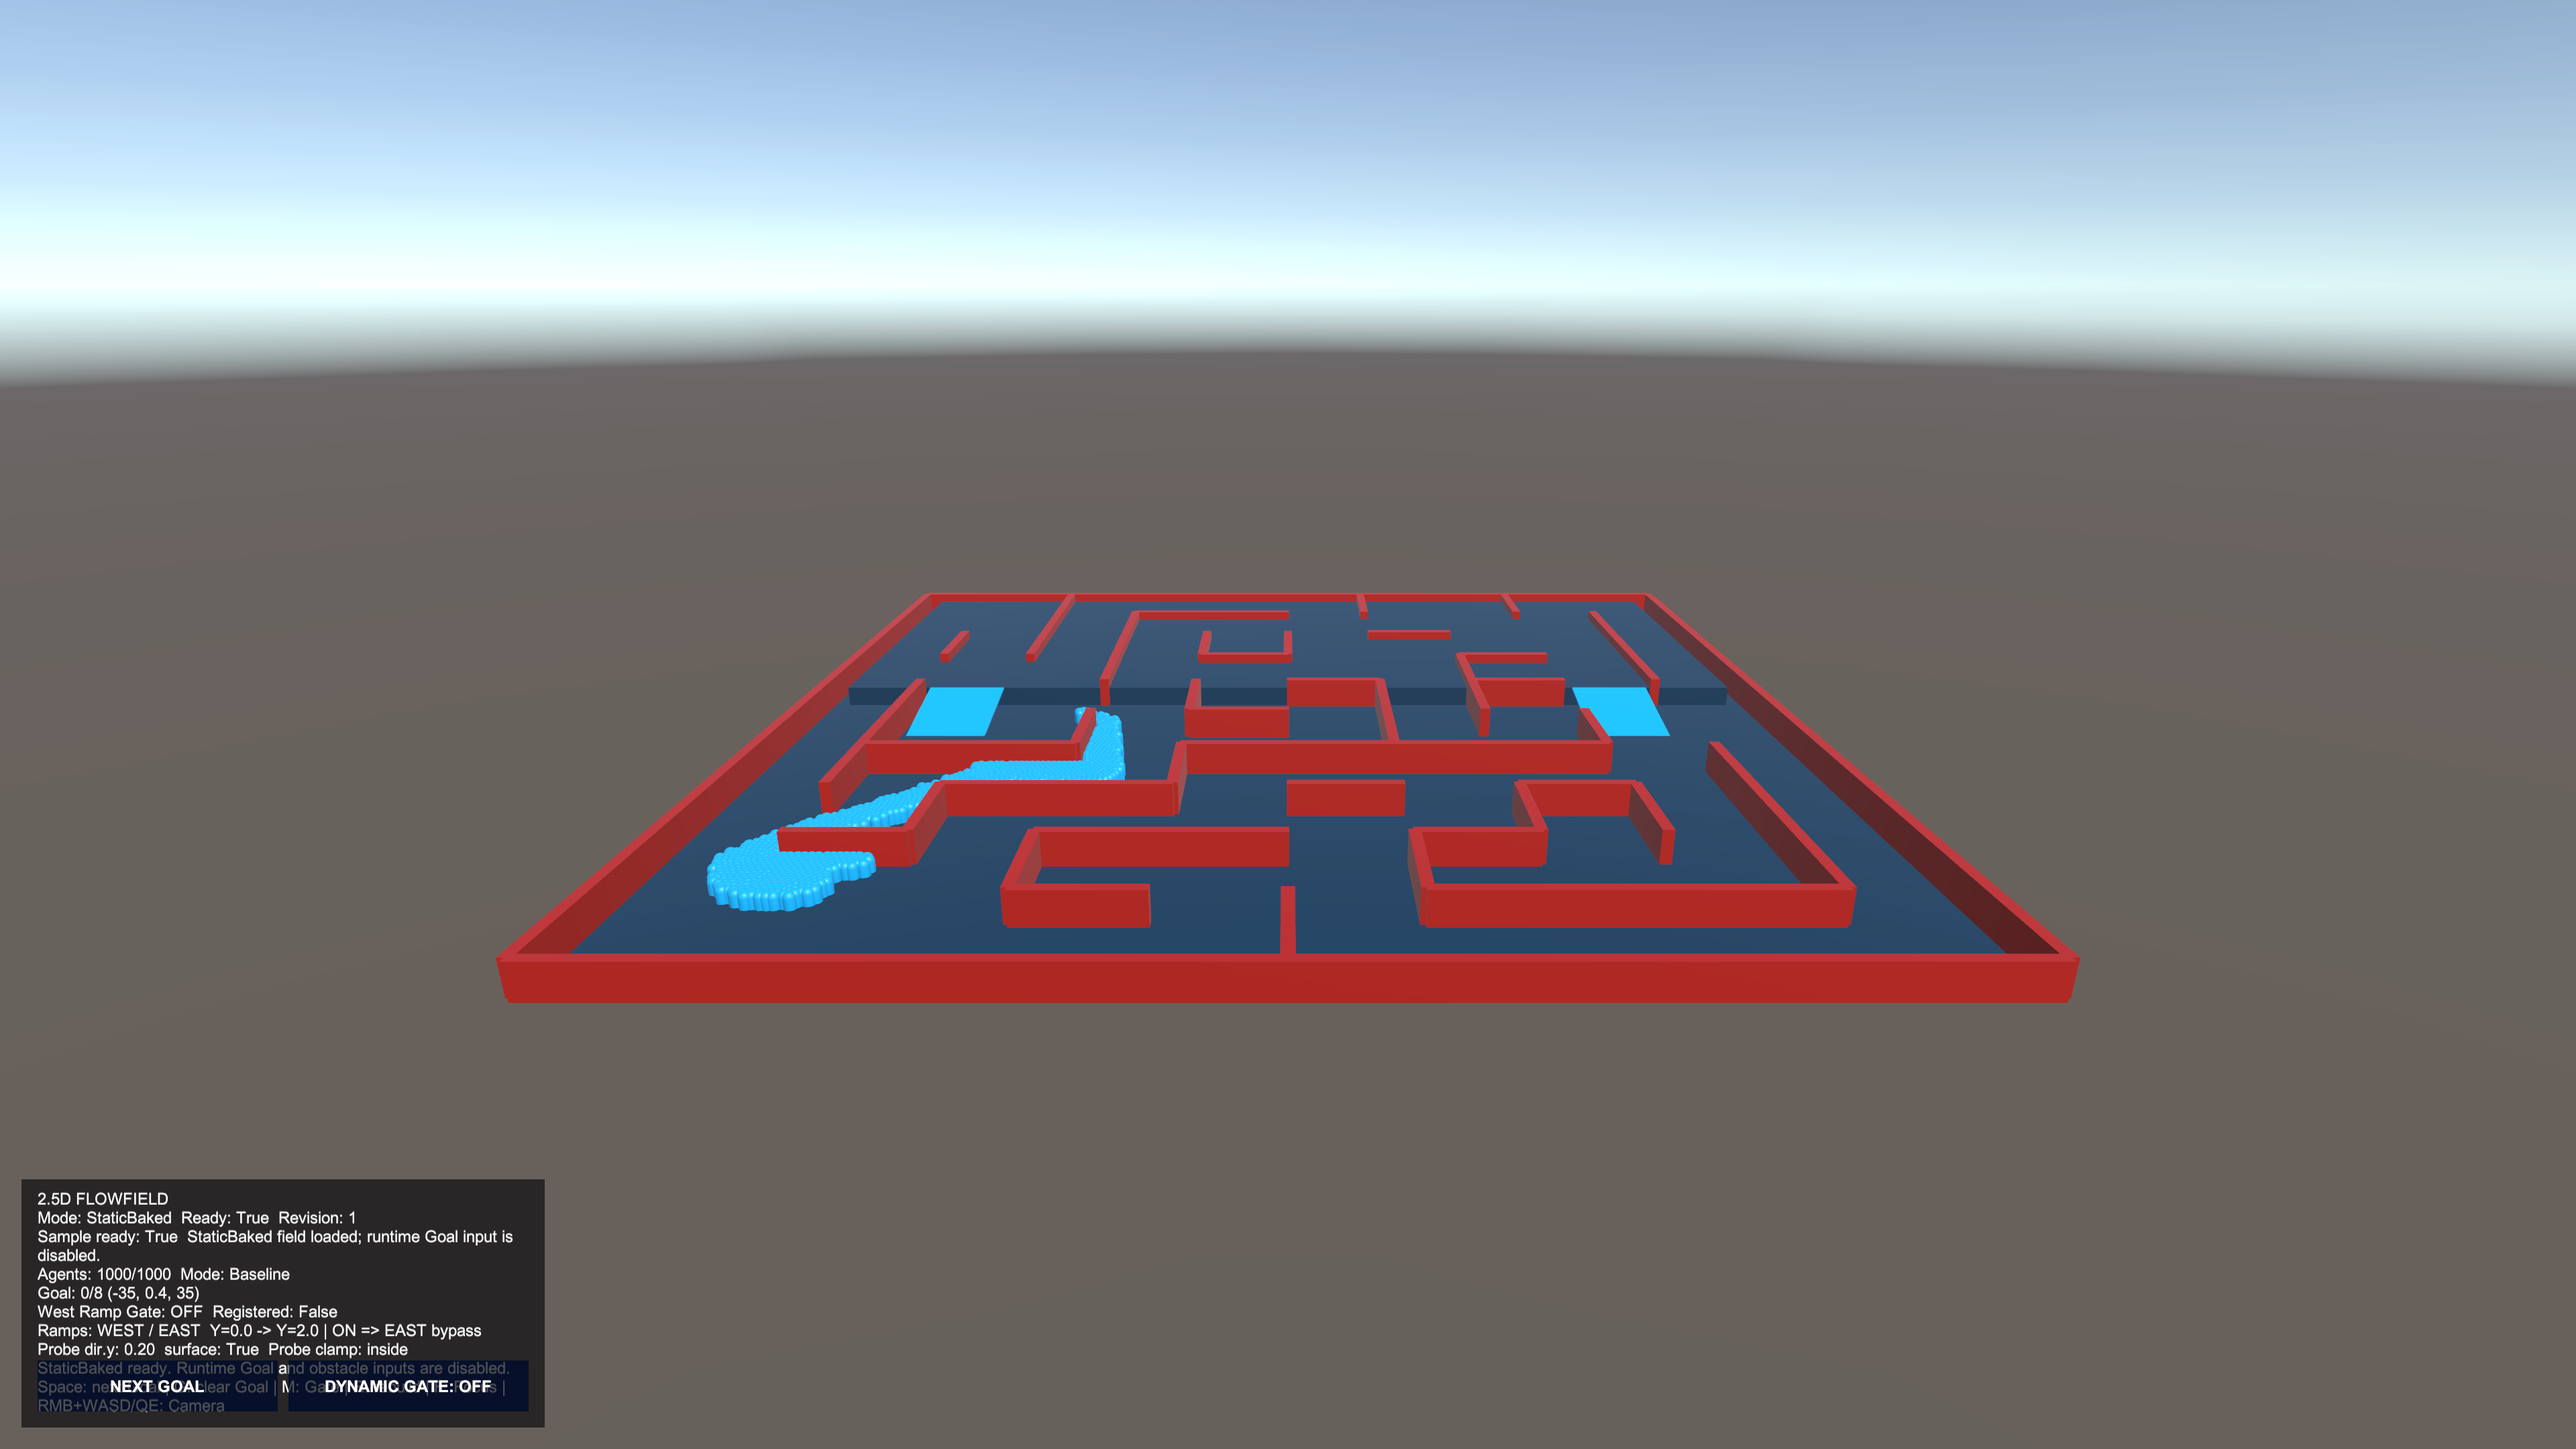
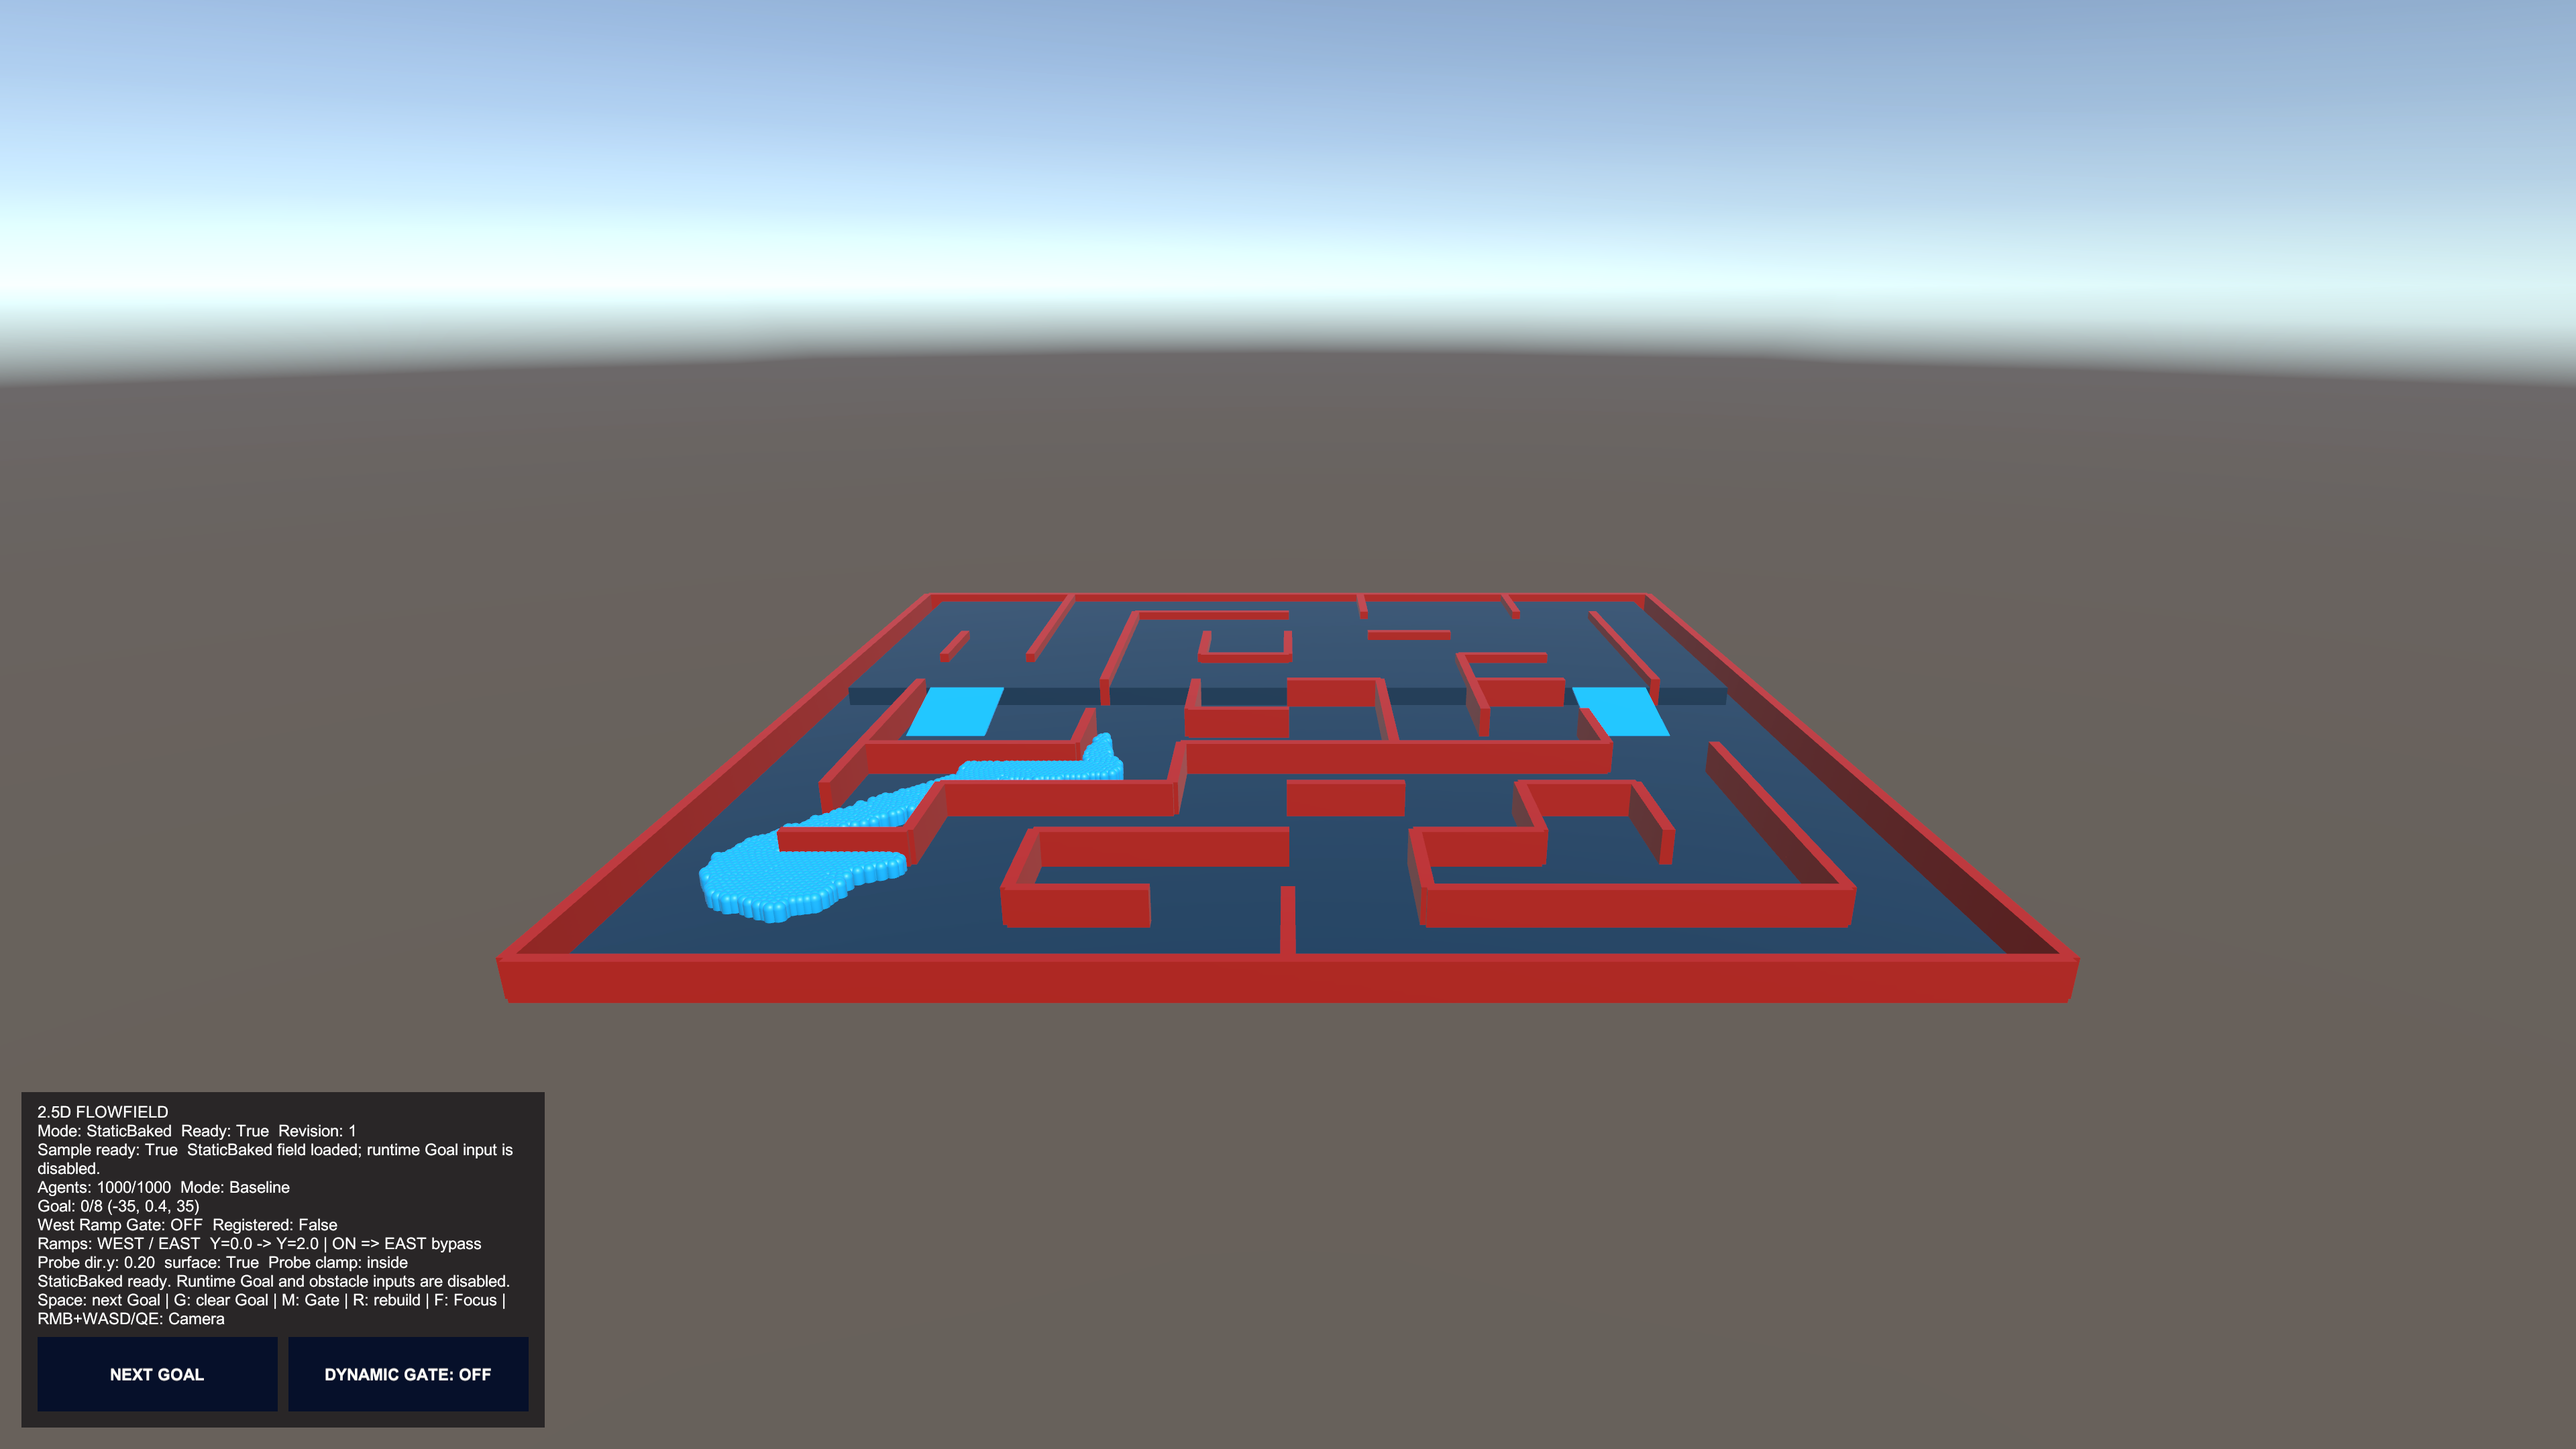
FlowField 문서: Goal 재사용·GPU 수치와 Surface 이미지 재캡처
Surface 런타임·StaticBaked 이미지를 현재 HUD로 다시 찍고, 실제 입력 확인 범위와
Burst를 진행하지 않은 이유를 기록한다.

Changed region(s): [[0.0, 0.7444, 0.2188, 0.9926], [0.25, 0.5583, 0.375, 0.6514], [0.4062, 0.4963, 0.4375, 0.5273]]

diff --git a/ToyProject/Assets/_FlowField/Docs/StatusAndBacklog.md b/ToyProject/Assets/_FlowField/Docs/StatusAndBacklog.md
@@ -1,12 +1,12 @@
 # FlowField 작업 현황과 남은 과제
 
-기준: 2026-10-31, 코드 커밋 `afb1fdf`. 단계별 결정과 근거는 [RefactoringNotes.md](RefactoringNotes.md#성능구조-개선-2026-10-2930), 사용법과 측정 표는 [README.md](../README.md#검증-기록)에 있다. 이 문서는 지금 상태와 다음에 할 일만 다룬다.
+기준: 2026-10-31, 코드 커밋 `5cdde7f`. 단계별 결정과 근거는 [RefactoringNotes.md](RefactoringNotes.md#성능구조-개선-2026-10-2930), 사용법과 측정 표는 [README.md](../README.md#검증-기록)에 있다. 이 문서는 지금 상태와 다음에 할 일만 다룬다.
 
 ## 현재 상태
 
 | 항목 | 상태 |
 | --- | --- |
-| 테스트 | macOS·Metal(Apple M4 Pro)에서 `Common.FlowField.Tests` 483개 통과, 실패 0, 성능 프로브 12개 제외. Windows·Direct3D 11 마지막 기록은 이번 수정 이전의 466개 |
+| 테스트 | macOS·Metal(Apple M4 Pro)에서 `Common.FlowField.Tests` 486개 통과, 실패 0, 성능 프로브 15개 제외. Windows·Direct3D 11 마지막 기록은 이번 수정 이전의 466개 |
 | 베이크 | Surface·Volume 모두 v6만 허용. Asset 2개는 같은 GUID로 다시 베이크했고 내용 해시는 v5와 같다. 마이그레이션 코드는 없다 |
 | 공개 계약 | Provider·Controller API, Manager 직렬화 설정, 씬·Prefab의 GUID 참조 유지. `FlowFieldManager.GpuFallbackReason` 추가 |
 | 성능 (100³ Volume, Managed) | 전체 빌드 26~55초 → 약 6초, 2ms 예산 빌드 12,585 → 2,214프레임, 장애물 1개 이동 후 재빌드 31.3 → 6.0초 |
@@ -53,6 +53,7 @@
 | `f51f420` | Volume 안전 스냅샷이 영역 근처 셀만 검사 | 영역 64개 8,872 → 6.6ms, 회귀 테스트 1개 |
 | `cbe2a5e` | Volume Modifier 변경은 게시된 내비게이션을 재합성 | 값 변경 3,304 → 425ms, 회귀 테스트 4개 |
 | `afb1fdf` | 샘플 HUD 패널 확장 | 안내 문구와 버튼 겹침 해결 |
+| `5cdde7f` | Volume: Goal만 바뀌면 장애물 결과 재사용 | Goal 변경 약 3,100 → 2,227ms, 회귀 테스트 3개 |
 
 Editor Play Mode 확인: Surface 샘플은 장애물이 매 Editor 틱 움직이는 동안 Revision 68까지 게시하고 Goal 변경을 반영했다. Volume 샘플은 StaticBaked v6를 로드했고, RuntimeDynamic으로 바꿔 장애물을 왕복시켰을 때 Revision 29, 정지 셀 133/4800이었다. 경고와 오류는 없었다. 결과 XML·로그·CSV는 Git에서 제외되는 `ToyProject/Logs/FlowFieldMaintenance/`에 있다.
 
@@ -70,7 +71,7 @@ Editor Play Mode 확인: Surface 샘플은 장애물이 매 Editor 틱 움직이
 | --- | --- | --- |
 | 베이크 에디터 | 테스트 어셈블리가 `Common.FlowField.Editor`를 참조하지 않아 `BakeAndAssign`을 직접 검사하지 않는다. 지금은 실제 베이크 후 `_revision` 외 차이가 없는지 수동으로 비교한다 | 자동 테스트 추가 검토 |
 | Windows | 이번 수정은 Metal에서만 실행했다 | Windows·Direct3D 11에서 전체 테스트 재실행 |
-| 실제 플레이 | Surface 샘플에서 실제 포인터로 게이트·Next Goal 버튼, 키보드로 Space를 확인했다. 군중 1000개 3분 이동에서 NaN·영역 이탈·샘플 실패·경고가 없었고, 재빌드 40회 전후 GC 후 힙이 같았다. Volume 샘플의 IMGUI 조작과 README 이미지 재캡처는 하지 않았다 | 필요할 때 Volume 샘플 조작과 재캡처 |
+| 실제 플레이 | Surface 샘플에서 실제 포인터로 게이트·Next Goal 버튼을, 두 샘플에서 Space를 확인했다. macOS 입력 소스가 한글인 상태에서는 R 키가 반응하지 않아 O·R·G·F 실제 키 입력은 확인하지 못했고, Volume의 게이트·카메라 핸들러는 직접 호출로 확인했다 | 영문 입력 소스에서 키 확인 |
 | GPU 경로 | 프로브와 골든 해시는 Managed 고정이다. GPU 빌드 시간 수치가 없고, GPU 결과는 위상 유효성만 검사하므로 동률 이웃이 Managed와 다를 수 있다 | 프로브에 GPU 변형 추가 |
 | Player 스크립트 | Mac Standalone 어셈블리 컴파일만 오류 없이 확인했다. 실행은 범위에서 제외했다 | 보류 항목 참고 |
 | 자동 실행 | 저장소에 CI 설정이 없다. Unity 라이선스에 로그인한 PC에서 수동으로 실행한다 | 자체 호스트 러너 등 검토 |
@@ -84,6 +85,7 @@ Apple M4 Pro·Managed 측정(`FlowFieldPerformanceProbes`). 결과 CSV는 `ToyPr
 | Surface 316×316 Goal 재빌드 | 425ms | 205ms | 셀마다 `CanTraverse`를 다시 부르고 Goal 준비를 두 번 했다. 준비된 Topology를 재사용한다 |
 | Volume 100³ 안전 스냅샷, 영역 1 / 64개 | 323ms / 8,872ms | 1.8ms / 6.6ms | 게시 프레임에 전체 셀×영역을 검사했다. 영역 근처 셀만 검사한다 |
 | Volume 100³ Modifier 값 변경 | 3,304ms | 425ms | 전체 빌드를 했다. Modifier 단계만 다시 실행한다 |
+| Volume 100³ Goal 변경 | 약 3,100ms | 2,227ms | Goal만 바뀌면 장애물 결과와 Topology를 재사용한다 |
 
 Surface Managed 재빌드 약 200ms는 여전히 한 번의 Pump에서 동기로 끝난다. Goal 준비 88ms, BFS 76ms, 합성 22ms, 탈출 방향 13ms다. BFS를 프레임으로 나누는 작업은 Session 변경이 커서 하지 않았고, GPU 경로를 쓸 수 없는 환경에서 200ms가 문제 될 때 다시 본다.
 
@@ -93,17 +95,14 @@ Volume 100³·장애물 50개·Modifier 3개의 전체 빌드는 약 3.6초다.
 | ---: | ---: | ---: | ---: | ---: | ---: | ---: |
 | 983ms (27%) | 695ms (20%) | 599ms (17%) | 532ms (15%) | 405ms (12%) | 187ms (5%) | 120ms (3%) |
 
-| 순위 | 항목 | 근거 | 예상 효과와 주의점 |
-| ---: | --- | --- | --- |
-| 1 | Volume Goal만 바뀔 때 Obstacles·Topology 재사용 | 두 단계 합계 약 27% | 추적하지 않는 Collider 반영 시점이 Modifier 재합성과 같은 방식으로 달라진다 |
-| 2 | Directions·BFS·Topology Burst 전환 | Physics 호출이 없고 합계 62% | 관리 배열 변환이 필요하다. 결과가 골든 해시와 같아야 한다 |
-| 3 | 프로브 GPU 변형 | 프로브와 골든 해시가 Managed 고정이다 | GPU 빌드 시간 수치 확보 |
+GPU 경로(같은 장면, 배치 실행의 프레임 대기 포함)는 Surface 332ms, 그중 첫 Pump 동기 구간 170ms이고, Volume 5,714ms다. 이 환경에서는 수정 후 Managed가 전체 시간은 더 짧다. 프레임 끊김 비교는 실제 Player 프레임 기준으로 다시 재야 한다.
 
 ### 보류한 항목
 
 | 항목 | 보류 이유 | 다시 볼 조건 |
 | --- | --- | --- |
 | Player 빌드 검증 | 2026-10-31 이번 계획 범위에서 제외했다. 실행 기록이 없어 Player에서의 동작은 미확인이다. v6 로드는 `MemoryMarshal`과 `ISerializationCallbackReceiver`에 의존하고, 첫 빌드 씬은 템플릿 `SampleScene`이며, 이 Mac의 2023.2.20f1에는 Mono용 Mac Player만 있다 | Player 배포가 필요해질 때. IL2CPP는 Mac Build Support (IL2CPP) 설치 후 |
+| Burst 전환 | Directions·BFS·Topology가 합계 62%지만 관리 배열 변환이 크고, Burst 동작은 Player에서 확인해야 하는데 Player 검증을 범위에서 제외했다 | Player 검증을 재개하고 Volume 전체 빌드 시간이 문제 될 때 |
 | 게시 배열 재사용 | 빌드 중 GC 0회. 재사용하면 상주 메모리가 약 50MB 늘어난다 | 실제 프로파일에서 재빌드 뒤 GC 스파이크가 문제 될 때 |
 | 증분 장애물 갱신 | 장애물 단계가 전체의 7~8%다. BFS·방향까지 증분이 아니면 효과가 작다 | 복잡한 Collider 장면에서 이 단계 비중이 커질 때 |
 | GPU 실패 재시도 | 관찰된 지연은 `GL.Flush`로 해결했다. 파도 수 초과·결과 검증 실패 후에는 같은 수명 동안 Managed로 고정한다. 실행 중 충돌로 인한 고정은 다음 순서 2단계에서 고친다 | 실제 기기에서 일시적 GPU 실패가 확인될 때 |
@@ -118,9 +117,9 @@ Volume 100³·장애물 50개·Modifier 3개의 전체 빌드는 약 3.6초다.
 
 ## 다음 순서
 
-2026-10-31 계획을 완료했다. Player 실행은 범위에서 제외했다. 이 Mac에서 할 수 없는 항목과 선택 항목만 남았다.
+2026-10-31 계획을 완료했다. Player 실행은 범위에서 제외했다. 다음 항목은 이 Mac이나 현재 입력 환경에서 할 수 없다.
 
 1. Windows·Direct3D 11 전체 테스트 재실행
-2. 필요할 때 README 이미지 재캡처와 위 성능 항목 진행
+2. 영문 입력 소스에서 샘플의 O·R·G·F 키 확인
 
 테스트와 프로브 실행 방법은 [README.md](../README.md#검증-기록)를 따른다. 단계별 XML·로그와 프로브 CSV는 Git에서 제외되는 `ToyProject/Logs/`에 있어 작업한 PC에만 남는다.

diff --git a/ToyProject/Assets/_FlowField/Docs/RefactoringNotes.md b/ToyProject/Assets/_FlowField/Docs/RefactoringNotes.md
@@ -369,5 +369,7 @@ $env:FLOWFIELD_PERF = "1"   # 성능 프로브: 위 명령에 -testCategory Perf
 - **움직이는 Goal**: Goal이 풀이 시간보다 자주 셀을 옮기면 결과가 계속 거부되어 게시가 멈췄다(프로브에서 풀이 30회, 게시 0회). 낡은 Goal을 게시하지 않는다는 기존 계약은 일회성 변경에서 유지하고, 연속으로 밀린 풀이만 게시한다. 이때 해석된 Goal은 요청 Goal보다 잠시 뒤처진다. Surface 샘플에서 Goal을 매 Editor 틱 움직이는 동안 게시가 이어지는 것을 확인했다.
 - **Surface BFS**: 프레임 분할이나 Burst 전환 전에 낭비부터 없앴다. 재빌드가 425ms에서 205ms로 줄어 분할은 하지 않았다.
 - **Volume Modifier 재합성**: 전체 빌드가 함께 갱신하던 미추적 Collider의 반영 시점이 달라진다. README가 이미 미등록·스윕 OFF 장애물을 추적 대상이 아니라고 설명하고 Surface도 같게 동작하므로 재합성을 택했다.
+- **Volume Goal 재사용**: 같은 입력의 재제출은 명시적 재빌드로 구분한다. `RequestRebuild()`의 재조회 계약을 Manager 변경 없이 지키기 위해서다.
+- **Burst 미전환**: Burst 동작은 Player에서 확인해야 하는데 Player 검증이 범위 밖이라 진행하지 않았다.
 - **베이크 에디터 검증**: Surface·Volume 모두 다시 베이크하면 `_revision`만 달라지므로, 정리 전후 Asset을 바이트로 비교했다. 씬과 Asset은 원복했다.
 - **샌드박스**: 배치 실행은 Unity 라이선스 소켓 때문에 Claude Code 샌드박스 밖에서 실행해야 한다. 별도 worktree에서 실행하면 열려 있는 Editor와 충돌하지 않는다.
